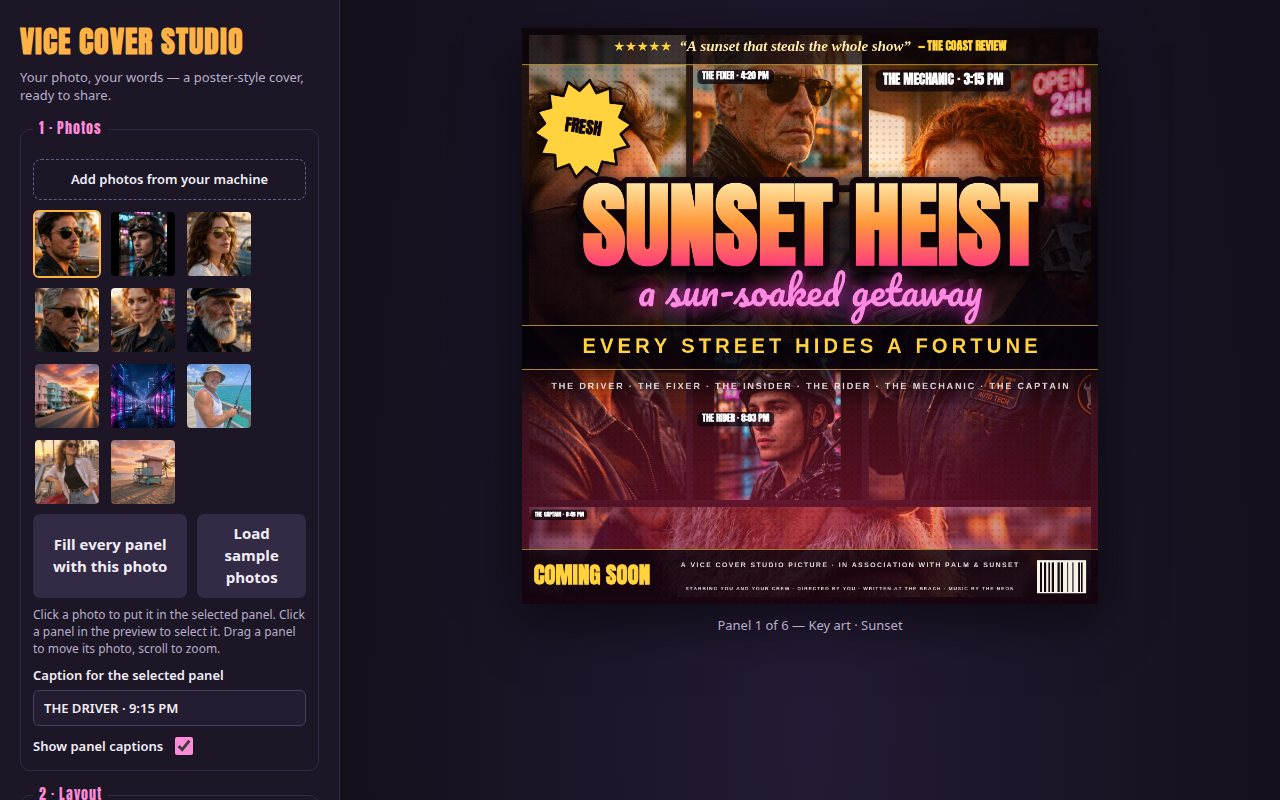
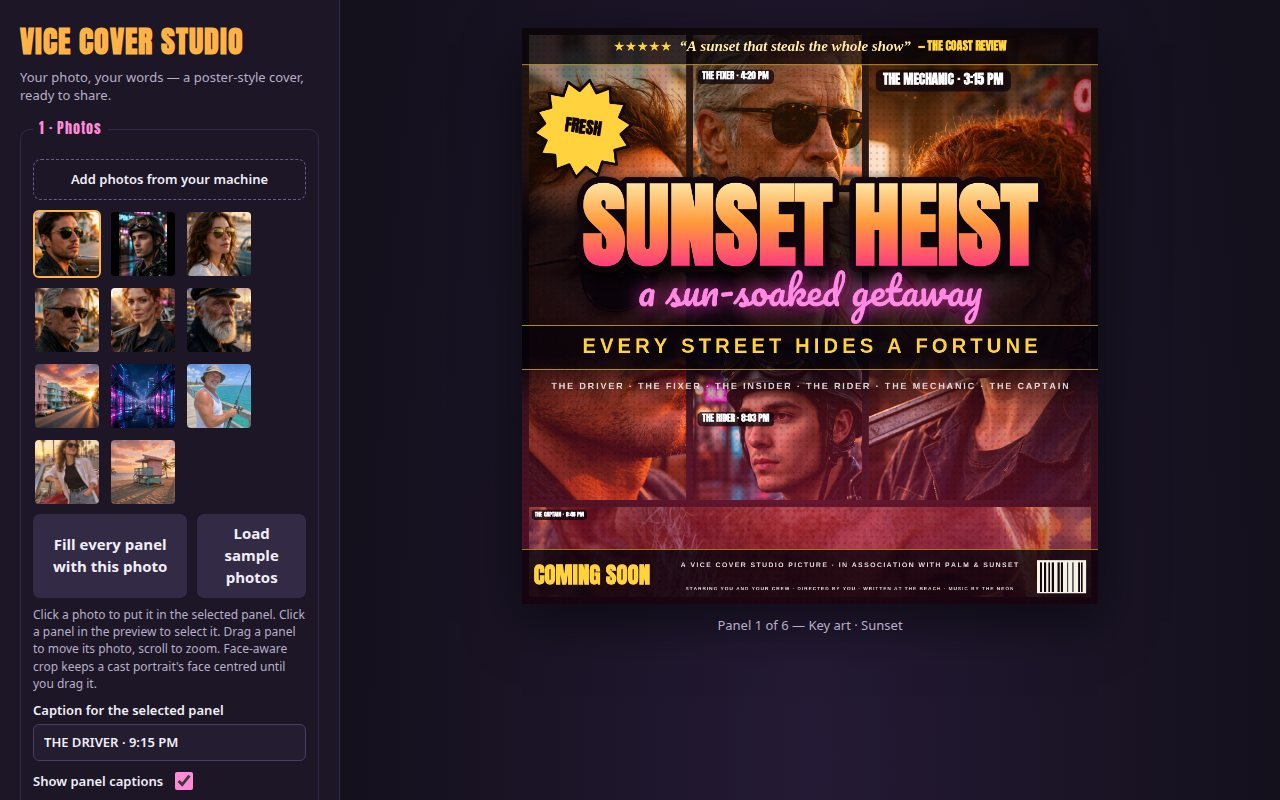
Round 5: face-aware crops, gold + vice grades, 6-cast key art
- Face-aware crop: per-portrait face anchors (read off the six cast
  portraits) snap a face to its panel centre until the user drags it;
  fixes the round-4 fault where the key-art strip kept only a beard or
  sunglasses. Toggle in the Photos panel, ?faceAware= shot param.
- Two new grades, gold and vice: six grades now, matching the top
  covers' five-grade sets with a grade to spare.
- Shots retuned to the real scenes: key-art sunset/stripes cover,
  key-art neon cover, poster gold 'Golden Hour' cover, live editor.
- README + main.ts describe the round-5 feature set; shot sidecars
  carry each portrait's face anchor.

diff --git a/app/src/cover.js b/app/src/cover.js
@@ -34,6 +34,23 @@ export const GRADES = {
   sunset: { label: 'Sunset — warm dusk grade' },
   neon: { label: 'Neon — magenta and cyan night' },
   noir: { label: 'Noir — black and white, hard contrast' },
+  gold: { label: 'Gold — golden-hour glow' },
+  vice: { label: 'Vice — teal and magenta Miami split' },
+};
+
+// Where each bundled cast portrait keeps its face, as fractions of the
+// photo (read off the portraits themselves, one by one). A panel that
+// shows one of these photos with face-aware crop on centres that point
+// instead of the photo's middle, so a tall hero or a short bottom strip
+// never crops the face out — the fault the round-4 covers showed in the
+// key-art strip, which kept only a beard or a pair of sunglasses.
+export const FACE_ANCHORS = {
+  driver: { x: 0.46, y: 0.38 },
+  rider: { x: 0.48, y: 0.46 },
+  woman: { x: 0.48, y: 0.4 },
+  fixer: { x: 0.46, y: 0.38 },
+  mechanic: { x: 0.45, y: 0.36 },
+  captain: { x: 0.45, y: 0.44 },
 };
 
 // Panel rectangles for a layout, in fractions of the canvas, with a gutter
@@ -134,6 +151,25 @@ export function drawPhotoInto(ctx, img, rect, zoom, ox, oy) {
   return { maxOx, maxOy };
 }
 
+// The pan that centres a face anchor in its panel, at a zoom with room to
+// move: the anchor's drawn position is cx - pw/2 + anchor.x * pw, so
+// centring it needs ox = pw * (0.5 - anchor.x), clamped to what the zoom
+// allows. A zoom below 1.45 leaves no room to shift in a tight panel, so
+// the face-aware zoom never drops below it. Returns the zoom and pan to
+// draw with; the caller keeps the panel's own pan once the user drags,
+// so a drag always wins over the snap.
+export function faceAwareOffset(img, rect, zoom, anchor) {
+  const z = Math.max(1.45, zoom || 1);
+  const base = Math.max(rect.w / img.naturalWidth, rect.h / img.naturalHeight);
+  const pw = img.naturalWidth * base * z;
+  const ph = img.naturalHeight * base * z;
+  const maxOx = Math.max(0, (pw - rect.w) / 2);
+  const maxOy = Math.max(0, (ph - rect.h) / 2);
+  const ox = Math.max(-maxOx, Math.min(maxOx, pw * (0.5 - anchor.x)));
+  const oy = Math.max(-maxOy, Math.min(maxOy, ph * (0.5 - anchor.y)));
+  return { zoom: z, ox, oy };
+}
+
 // A soft dark vignette over the whole cover, so the caption reads anywhere.
 function vignette(ctx, W, H) {
   const r = Math.hypot(W, H) / 2;
@@ -161,6 +197,12 @@ function gradeWash(ctx, W, H, grade) {
   } else if (grade === 'noir') {
     top = ['rgba(255,255,255,0.06)', 'rgba(255,255,255,0.00)'];
     bottom = ['rgba(0,0,0,0.00)', 'rgba(0,0,0,0.34)'];
+  } else if (grade === 'gold') {
+    top = ['rgba(255,190,60,0.20)', 'rgba(255,140,40,0.08)'];
+    bottom = ['rgba(255,120,0,0.00)', 'rgba(190,70,0,0.42)'];
+  } else if (grade === 'vice') {
+    top = ['rgba(0,220,200,0.18)', 'rgba(0,120,180,0.10)'];
+    bottom = ['rgba(255,0,150,0.00)', 'rgba(255,0,150,0.42)'];
   }
   const g1 = ctx.createLinearGradient(0, 0, 0, H * 0.55);
   g1.addColorStop(0, top[0]);
@@ -820,9 +862,10 @@ export function halftone(ctx, W, H) {
 // Renders the whole cover. `state` carries layout, grade, size, caption,
 // subtitle, tagline, badgeText, badgeStyle, showBadge, halftone,
 // showPanelLabels, captionPos, captionScale, outline, textStyle, quote,
-// quoteSource, showQuote, footer, footer2, showFooter, and
+// quoteSource, showQuote, footer, footer2, showFooter, faceAware, and
 // panels: an array of { photo, zoom, ox, oy, caption } where photo is an
-// image element or null.
+// image element or null. A photo element may carry `_face`, its face
+// anchor from FACE_ANCHORS, which face-aware crop centres in its panel.
 // A panel with no photo gets a deep purple placeholder with its number.
 export function renderCover(canvas, state) {
   const size = SIZES[state.size] || SIZES.square;
@@ -841,8 +884,19 @@ export function renderCover(canvas, state) {
       // A heavy, unified grade: saturate + contrast on the photo itself,
       // on top of the wash painted later, so the panels feel like one poster.
       if (noir) ctx.filter = 'grayscale(1) contrast(1.18) brightness(1.04)';
+      else if (state.grade === 'gold') ctx.filter = 'saturate(1.35) contrast(1.1) brightness(1.03)';
+      else if (state.grade === 'vice') ctx.filter = 'saturate(1.3) contrast(1.08)';
       else if (state.grade === 'sunset' || state.grade === 'neon') ctx.filter = 'saturate(1.28) contrast(1.07)';
-      drawPhotoInto(ctx, panel.photo, rect, panel.zoom, panel.ox, panel.oy);
+      // Face-aware crop: a portrait with a known face anchor, not yet
+      // dragged by hand, is snapped so its face sits in the panel's
+      // centre. A drag (any pan) hands the framing back to the user.
+      let zoom = panel.zoom, ox = panel.ox, oy = panel.oy;
+      const face = (state.faceAware !== false && panel.photo) ? panel.photo._face : null;
+      if (face && (panel.ox === 0 && panel.oy === 0)) {
+        const snap = faceAwareOffset(panel.photo, rect, zoom, face);
+        zoom = snap.zoom; ox = snap.ox; oy = snap.oy;
+      }
+      drawPhotoInto(ctx, panel.photo, rect, zoom, ox, oy);
       ctx.filter = 'none';
     } else {
       const g = ctx.createLinearGradient(rect.x, rect.y, rect.x + rect.w, rect.y + rect.h);

diff --git a/app/src/main.js b/app/src/main.js
@@ -3,7 +3,7 @@
 // controls, and PNG export in the three post sizes. A `?shot=` query sets up
 // a fixed scene for a screenshot instead (./shots.js).
 
-import { SIZES, LAYOUTS, GRADES, BADGE_STYLES, layoutPanels, renderCover, defaultPanelLabel } from './cover.js';
+import { SIZES, LAYOUTS, GRADES, BADGE_STYLES, FACE_ANCHORS, layoutPanels, renderCover, defaultPanelLabel } from './cover.js';
 import { runShot } from './shots.js';
 
 const canvas = document.getElementById('cover');
@@ -35,6 +35,9 @@ export const state = {
   footer: 'A Vice Cover Studio picture · In association with Palm & Sunset',
   footer2: 'Starring you and your crew · Directed by you · Written at the beach · Music by the neon',
   showFooter: true,
+  // Face-aware crop is on by default: a bundled cast portrait keeps its
+  // face centred in its panel until the user drags it by hand.
+  faceAware: true,
   tray: [],
   panels: [],
   selectedPanel: 0,
@@ -130,6 +133,9 @@ export async function loadSamples() {
     if (state.tray.some((t) => t.name === name)) continue;
     try {
       const img = await loadImage(`samples/${name}.jpg`);
+      // The face anchor rides on the image itself, so the render engine
+      // can centre it without the panels having to know any names.
+      img._face = FACE_ANCHORS[name] || null;
       state.tray.push({ img, name, url: `samples/${name}.jpg` });
     } catch {
       // A missing sample is not fatal; the tray just holds fewer photos.
@@ -191,6 +197,10 @@ document.getElementById('badgeStyle').addEventListener('change', (e) => {
 });
 document.getElementById('showPanelLabels').addEventListener('change', (e) => {
   state.showPanelLabels = e.target.checked;
+  redraw();
+});
+document.getElementById('faceAware').addEventListener('change', (e) => {
+  state.faceAware = e.target.checked;
   redraw();
 });
 document.getElementById('panelCaption').addEventListener('input', (e) => {
@@ -388,6 +398,7 @@ window.__vice = {
     if (panel) { panel.caption = text; redraw(); }
   },
   setShowPanelLabels: (on) => { state.showPanelLabels = !!on; redraw(); },
+  setFaceAware: (on) => { state.faceAware = !!on; const el = document.getElementById('faceAware'); if (el) el.checked = !!on; redraw(); },
   setHalftone: (on) => { state.halftone = !!on; redraw(); },
   setQuote: (text) => { state.quote = text; const el = document.getElementById('quote'); if (el) el.value = text; redraw(); },
   setQuoteSource: (text) => { state.quoteSource = text; const el = document.getElementById('quoteSource'); if (el) el.value = text; redraw(); },

diff --git a/app/index.html b/app/index.html
@@ -24,12 +24,15 @@
         <button id="fillAll" type="button">Fill every panel with this photo</button>
         <button id="samples" type="button">Load sample photos</button>
       </div>
-      <p class="hint">Click a photo to put it in the selected panel. Click a panel in the preview to select it. Drag a panel to move its photo, scroll to zoom.</p>
+      <p class="hint">Click a photo to put it in the selected panel. Click a panel in the preview to select it. Drag a panel to move its photo, scroll to zoom. Face-aware crop keeps a cast portrait's face centred until you drag it.</p>
       <label>Caption for the selected panel
         <input id="panelCaption" type="text" maxlength="40" value="" placeholder="e.g. OCEAN DRIVE · 5:42 PM">
       </label>
       <label class="check">Show panel captions
         <input id="showPanelLabels" type="checkbox" checked>
+      </label>
+      <label class="check">Face-aware crop — keep faces centred
+        <input id="faceAware" type="checkbox" checked>
       </label>
     </fieldset>
 
@@ -52,7 +55,7 @@
         <input id="subtitle" type="text" maxlength="60" value="a sun-soaked getaway">
       </label>
       <label>Tagline
-        <input id="tagline" type="text" maxlength="80" value="Every street tells a story">
+        <input id="tagline" type="text" maxlength="80" value="Every street hides a fortune">
       </label>
       <div class="row">
         <label>Badge style

diff --git a/app/src/shots.js b/app/src/shots.js
@@ -3,8 +3,8 @@
 // Query params: layout, grade, size, caption, subtitle, tagline, badge,
 // badgeStyle, halftone, photo (a comma list of sample names, one per panel,
 // the last one repeating), captions (per-panel labels, "|" separated),
-// captionPos (bottom/center/top), quote, quoteSource, showQuote,
-// footer, showFooter.
+// captionPos (bottom/center/top), textStyle, faceAware (0/1),
+// quote, quoteSource, showQuote, footer, footer2, showFooter.
 // window.__shotReady is set once the scene has painted.
 
 import { defaultPanelLabel } from './cover.js';
@@ -47,6 +47,8 @@ export async function runShot(shot, query) {
   if (pos) { vice.setCaptionPos(pos); }
   const style = query.get('textStyle');
   if (style) { vice.state.textStyle = style; }
+  const faceAware = query.get('faceAware');
+  if (faceAware !== null) vice.setFaceAware(faceAware !== '0');
   const quote = query.get('quote');
   if (quote !== null) vice.setQuote(quote);
   const quoteSource = query.get('quoteSource');

diff --git a/main.ts b/main.ts
@@ -1,6 +1,8 @@
-// Vice Cover Studio: a multi-panel GTA-style cover maker — five layouts,
-// four colour grades, bold Anton captioning, three export sizes (1080x1080,
-// 1080x1350, 1920x1080). Built by the recorded agent session for this entry.
+// Vice Cover Studio: a multi-panel GTA-style cover maker — seven layouts,
+// six colour grades, face-aware portrait crops, bold Anton captioning,
+// a review strip, cast billing and a COMING SOON footer, three export
+// sizes (1080x1080, 1080x1350, 1920x1080). Built by the recorded agent
+// session for this entry.
 // A working gta6-cover-art-01 entry (Node 22, standard library only): the app is this directory's app/ folder, plain
 // static files a desktop browser loads offline (app/index.html and its ES modules, no library and no network
 // request), and the program hands it in. It copies app/ and screenshots/ from beside this file to /output and writes

diff --git a/serve.ts b/serve.ts
@@ -2,6 +2,8 @@
 // locally without a build step: `node serve.ts` serves app/ on http://localhost:8080.
 // It sends the MIME types an offline web app needs, refuses any path outside app/, and otherwise
 // does nothing clever: this is a development convenience, not a web server for the internet.
+// Screenshots come from the app's own ?shot= scenes (see shots.json for the exact queries):
+// serve on a port, then screenshot each scene and export it with the app's exportPNG.
 import { createReadStream, statSync } from 'node:fs';
 import { createServer } from 'node:http';
 import { extname, join, normalize, resolve, sep } from 'node:path';

diff --git a/README.md b/README.md
@@ -4,17 +4,20 @@
 [![rank](https://make.fun/badge/gta6-cover-art-01/sastrokucrit-creator/gta6-cover-art-01/rank.svg)](https://make.fun/bounty/gta6-cover-art-01/leaderboard?utm_source=github&utm_medium=readme&utm_campaign=gta6-cover-art-01)
 [![reward](https://make.fun/badge/gta6-cover-art-01/sastrokucrit-creator/gta6-cover-art-01/reward.svg)](https://make.fun/bounty/gta6-cover-art-01?utm_source=github&utm_medium=readme&utm_campaign=gta6-cover-art-01)
 
-Vice Cover Studio turns your own photo and a caption into a GTA 6-style poster cover. It is a fully offline static web app: choose one of seven collage layouts, load photos from your machine, crop and position each panel, write a big gradient title with a script subtitle, tagline and starburst badge, pick a sunset, neon or noir colour grade (with an optional halftone finish), and export the result as a PNG ready to post.
+Vice Cover Studio turns your own photo and a caption into a GTA 6-style poster cover. It is a fully offline static web app: choose one of seven collage layouts, load photos from your machine, crop and position each panel, write a big gradient title with a script subtitle, tagline and starburst badge, pick one of six colour grades (with an optional halftone finish), and export the result as a PNG ready to post.
 
 ## What it does
 
 - Seven poster layouts: Showcase, Poster, Key art, Hero, Duo, Trio and Quad
 - Your photos, cropped and positioned per panel, one photo or several
-- A title-block editor: title, script subtitle, tagline, badge text and badge on/off, fill, size and outline
-- Colour grades: sunset (default), neon, noir and original, applied evenly across every panel
+- Face-aware crop: a cast portrait keeps its face centred in its panel until you drag it by hand
+- A title-block editor: title, script subtitle, tagline bar, badge text and badge on/off, fill, size and outline
+- A five-star review strip, a cast billing line, and a production footer with two credit lines, COMING SOON and a barcode
+- Colour grades: sunset (default), neon, noir, gold, vice and original, applied evenly across every panel
+- Five badge styles: starburst, WANTED poster, EST. seal, VOL. ticket and Collector's ribbon
 - Live preview while you edit
 - PNG export in all three post sizes: 1080×1080, 1080×1350 and 1920×1080
-- Five model-made sample photos are bundled, so you can try every layout and grade without uploading a photo first
+- Eleven model-made sample photos are bundled — six cast portraits and five places — so you can try every layout and grade without uploading a photo first
 
 Everything runs on your own machine. Photos are never uploaded anywhere, and the app makes no network request at all — fonts and sample photos are vendored files under `app/`.
 
